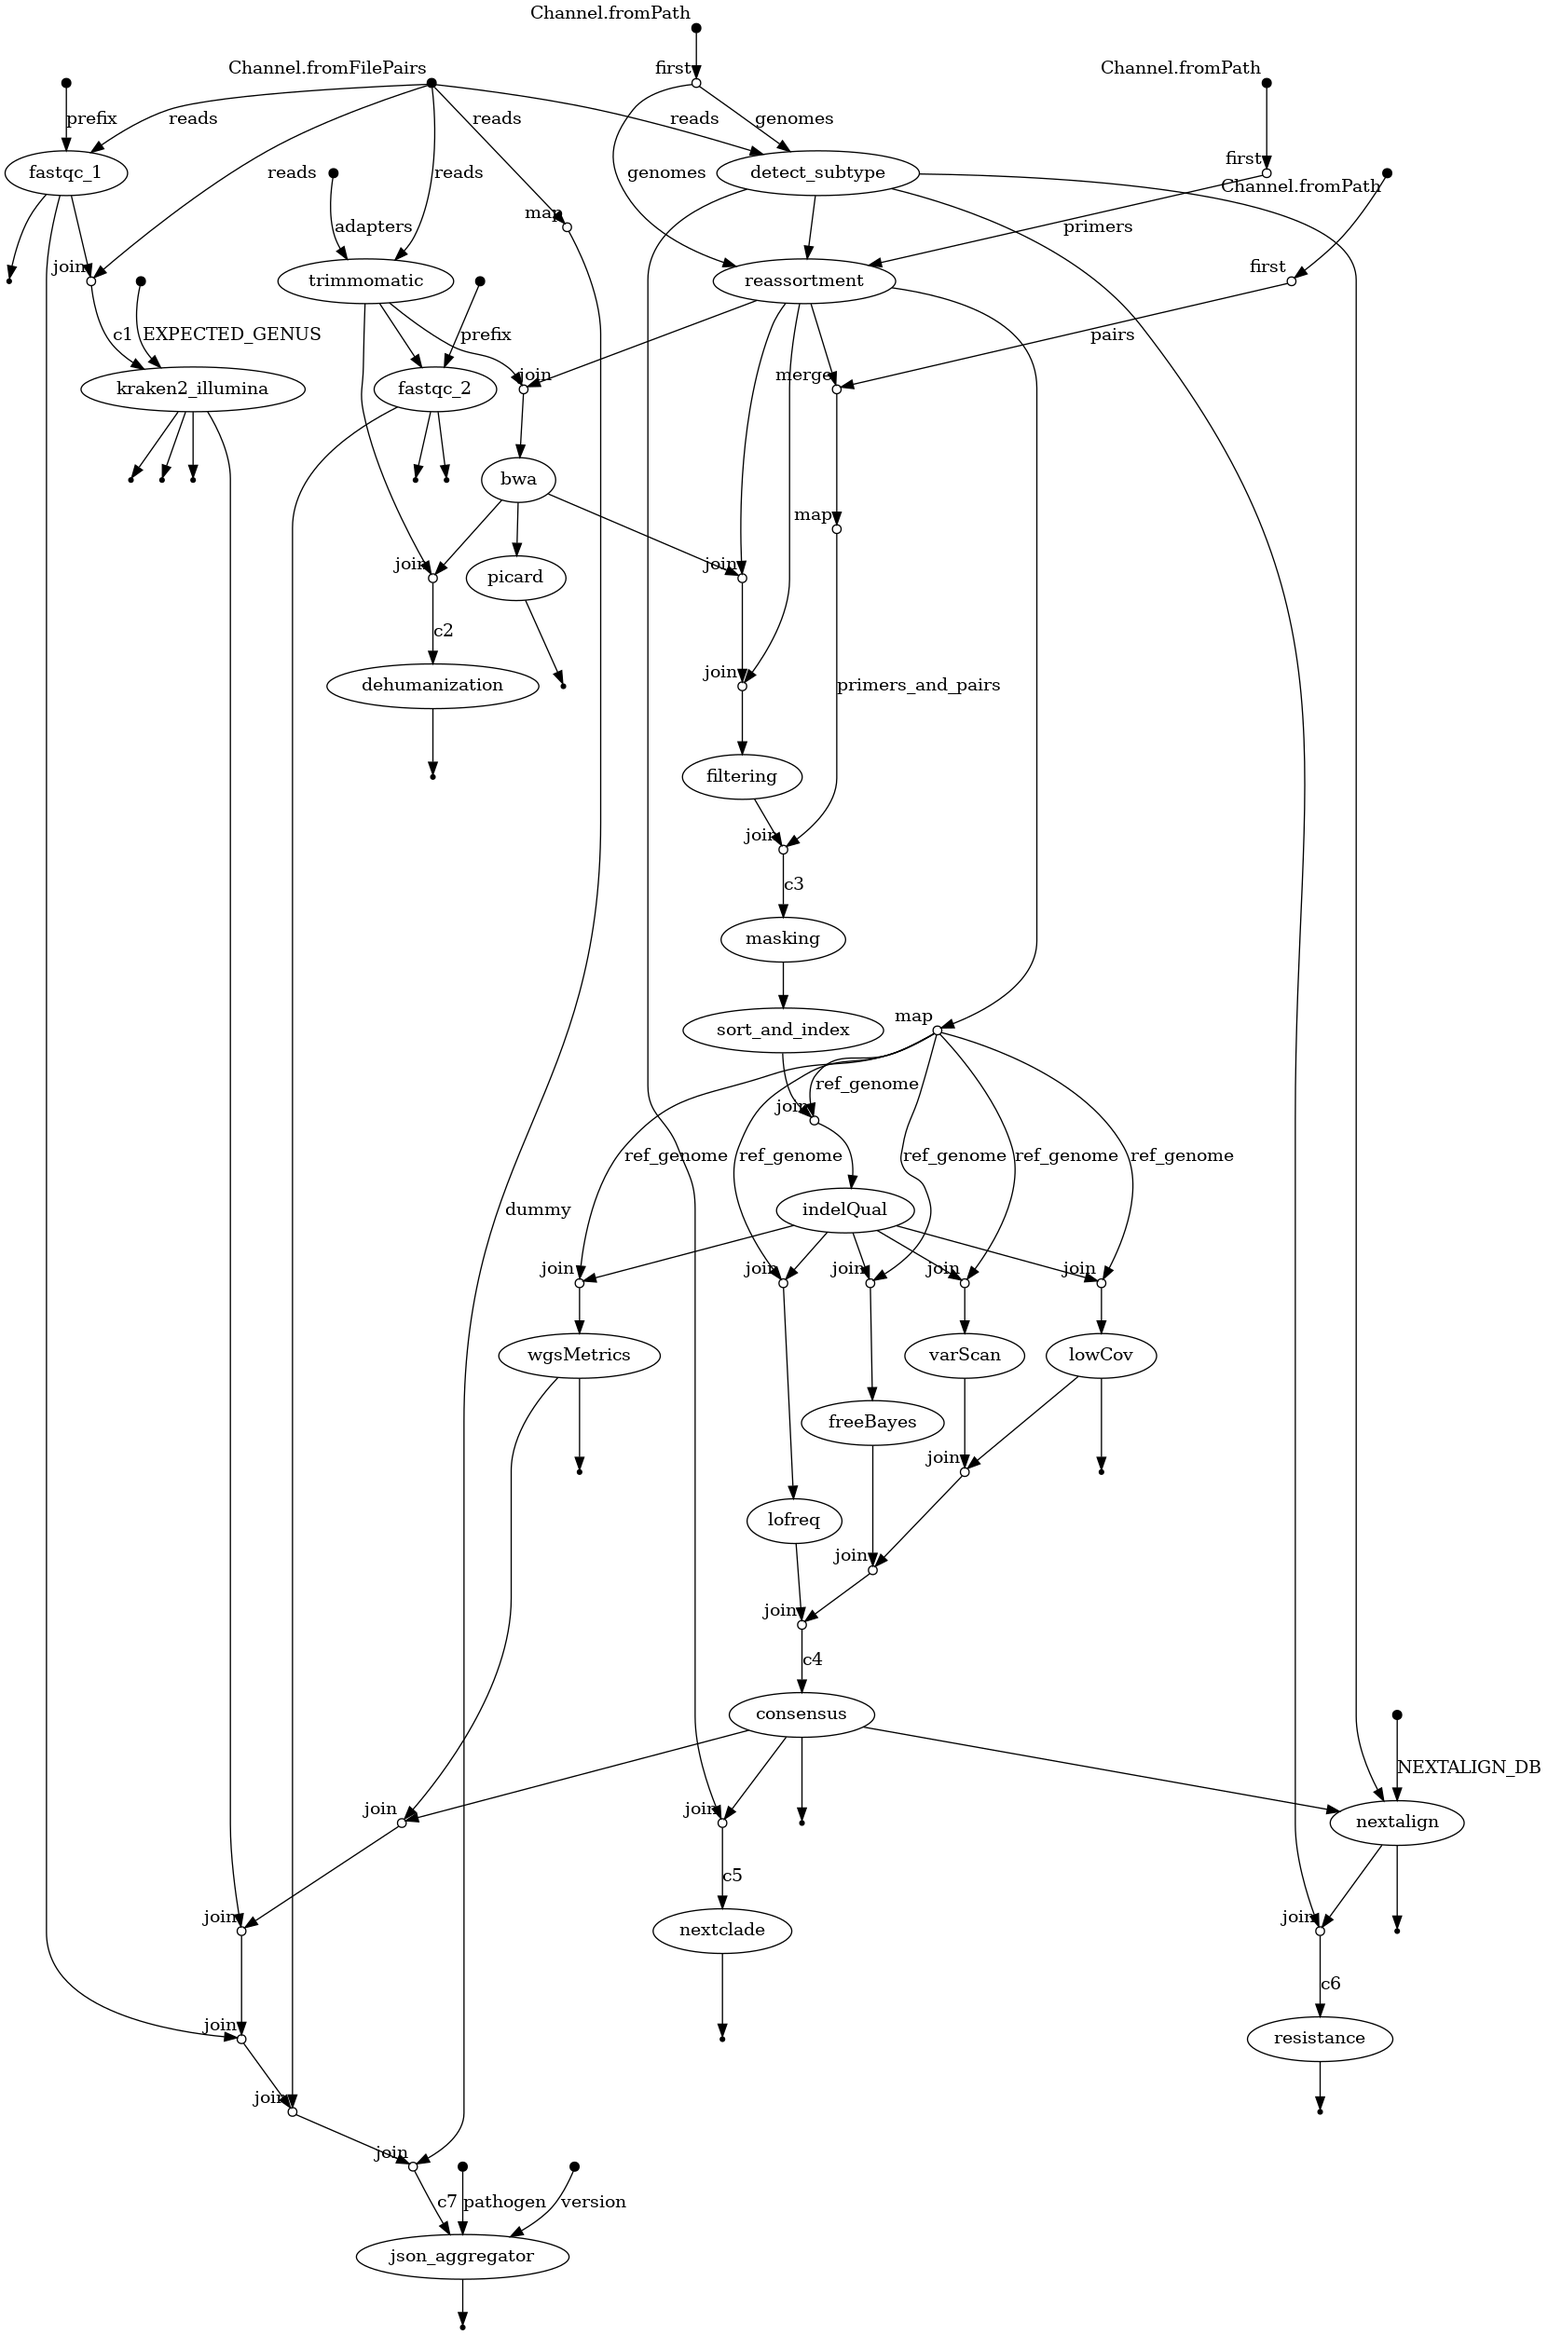
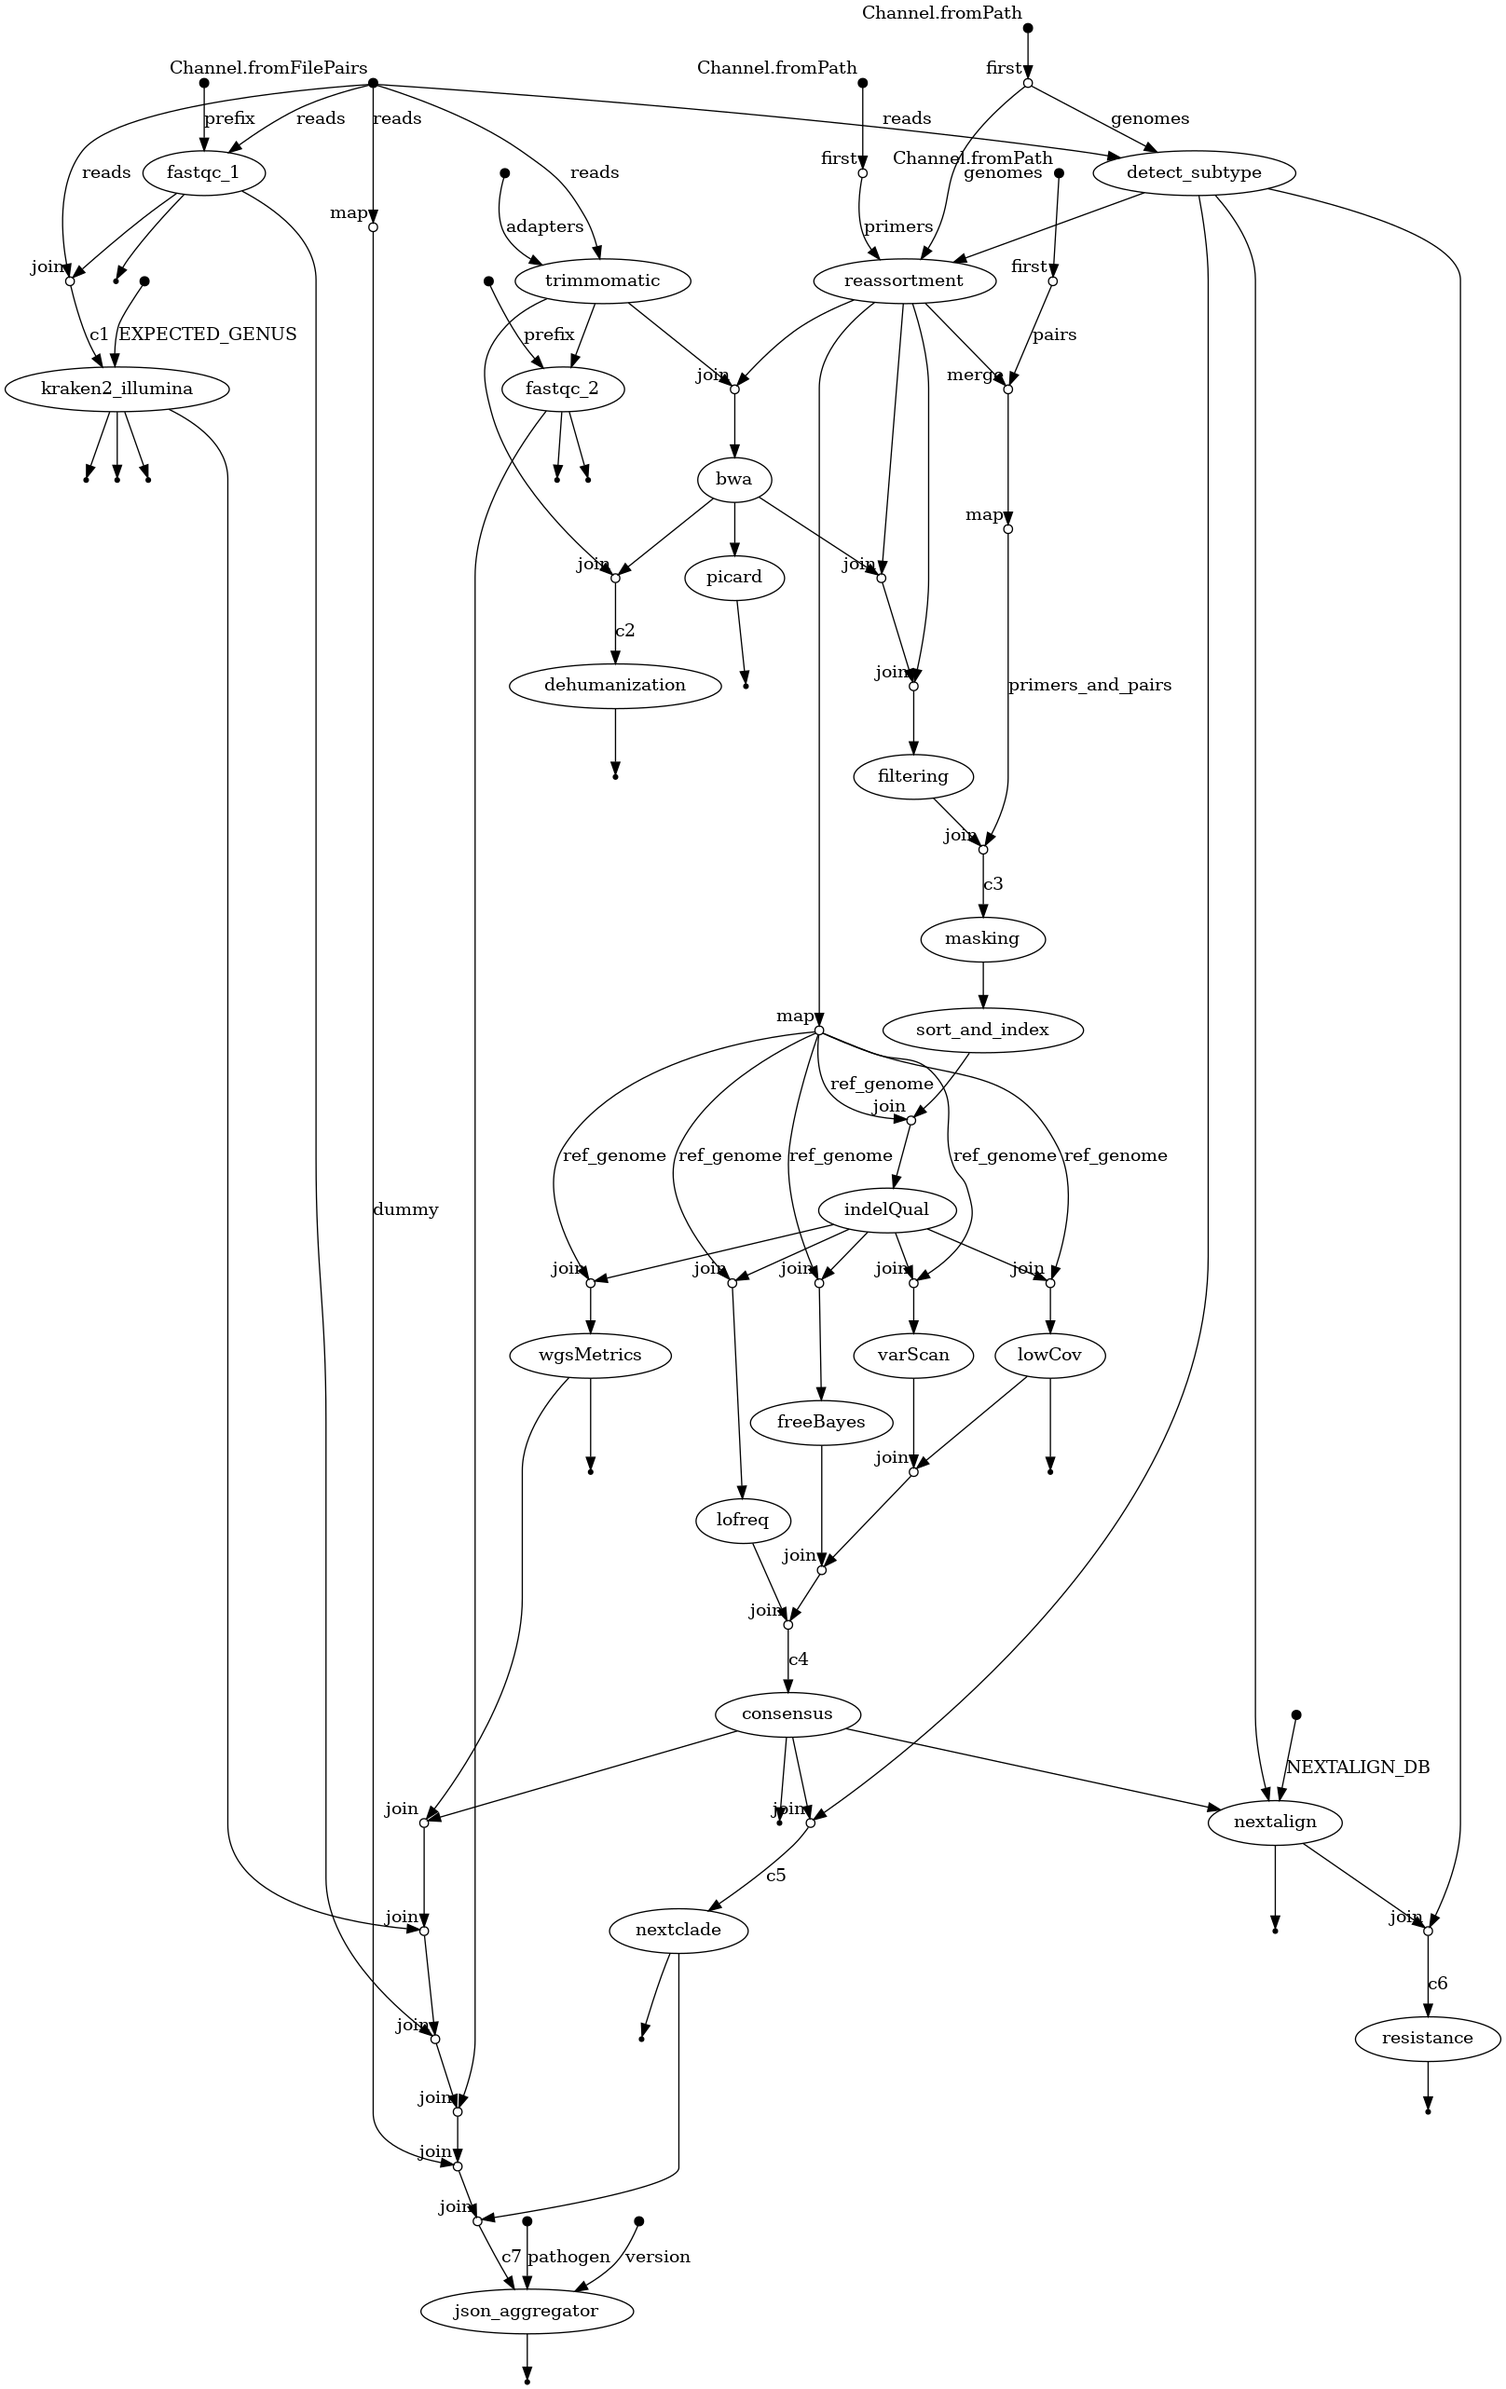
Nextclade added to sars and infl output.json

diff --git a/bin/sarscov2/parse_nextclade_output_csv2json.py b/bin/sarscov2/parse_nextclade_output_csv2json.py
@@ -17,7 +17,7 @@ def get_nextclade_db_version(input: str):
     return data['meta']['updated']
 
 
-def parse_nextclade_output_csv2json(input: str, input2: str, output: str):
+def parse_nextclade_output_csv2json(input: str, input2: str, output: str, sequence_source: str):
     if not os.path.exists(input):
         warn(f"File {input} does not exist.")
         output_json = {"status": "nie",
@@ -33,14 +33,18 @@ def parse_nextclade_output_csv2json(input: str, input2: str, output: str):
         with open(input, 'r') as f:
             reader = csv.DictReader(f, delimiter=';')
             data = list(reader)
-        print(data)
+        if data[0]['qc.overallStatus'] == 'good':
+            qc_status = "pass"
+        else:
+            qc_status = "warning"
         output_json = {"status": "tak",
                        "database_name": "Nextclade",
                        "database_version": db_version,
                        "program_name": "Nextclade",
                        "program_version": program_version,
-                       "variant_name": data[0]['clade_nextstrain'],
-                       "variant_qc_status": data[0]['qc.overallStatus']}
+                       "variant_name": data[0]['clade'],
+                       "variant_qc_status": qc_status,
+                       "sequence_source": sequence_source}
         with open(output, 'w') as f:
             json.dump(output_json, f, indent=4)
 
@@ -52,9 +56,10 @@ def main():
     parser.add_argument('input', type=str, help='Input CSV file')
     parser.add_argument('input2', type=str, help='Input file nextclade.auspice.json')
     parser.add_argument('output', type=str, help='Output JSON file')
+    parser.add_argument('sequence_source', type=str, help='Segment id or string "full_genome"')
     args = parser.parse_args()
 
-    parse_nextclade_output_csv2json(args.input, args.input2, args.output)
+    parse_nextclade_output_csv2json(args.input, args.input2, args.output, args.sequence_source)
 
 
 if __name__ == '__main__':

diff --git a/bin/sarscov2/parse_pangolin_output_csv2json.py b/bin/sarscov2/parse_pangolin_output_csv2json.py
@@ -11,8 +11,8 @@ def parse_pangolin_output_csv2json(input: str, output: str):
     if not os.path.exists(input):
         warn(f"File {input} does not exist.")
         output_json = {"status": "nie",
-                  "database_name": "Pango",
-                  "error_message": f"File {input} does not exist."}
+                       "database_name": "Pango",
+                       "error_message": f"File {input} does not exist."}
         with open(output, 'w') as f:
             json.dump(output_json, f)
     else:
@@ -20,12 +20,14 @@ def parse_pangolin_output_csv2json(input: str, output: str):
             reader = csv.DictReader(f)
             data = list(reader)
         output_json = {"status": "tak",
-                  "database_name": "Pango",
-                  "database_version": data[0]['pangolin_version'],
-                  "program_name": "scorpion",
-                  "program_version": data[0]['scorpio_version'],
-                  "variant_name": data[0]['lineage'],
-                  "variant_qc_status": data[0]['qc_status'],}
+                       "database_name": "Pango",
+                       "database_version": data[0]['pangolin_version'],
+                       "program_name": "scorpion",
+                       "program_version": data[0]['scorpio_version'],
+                       "variant_name": data[0]['lineage'],
+                       "variant_qc_status": data[0]['qc_status'],
+                       "sequence_source": "full_genome",
+                       }
         with open(output, 'w') as f:
             json.dump(output_json, f, indent=4)
 

diff --git a/bin/common/json_aggregator.py b/bin/common/json_aggregator.py
@@ -103,13 +103,15 @@ def fill_genome_files_data(args, output):
                     'segment_path': filename
                 })
 
+
 def fill_viral_classification_data(file_path, output):
     if file_path == "non-existent":
         return
     with open(file_path) as f:
         data = json.load(f)
-        output["output"]["viral_classification_data"].append(data)
-
+        print(data)
+        for i in data:
+            output["output"]["viral_classification_data"].append(i)
 
 
 def json_aggregator(args):
